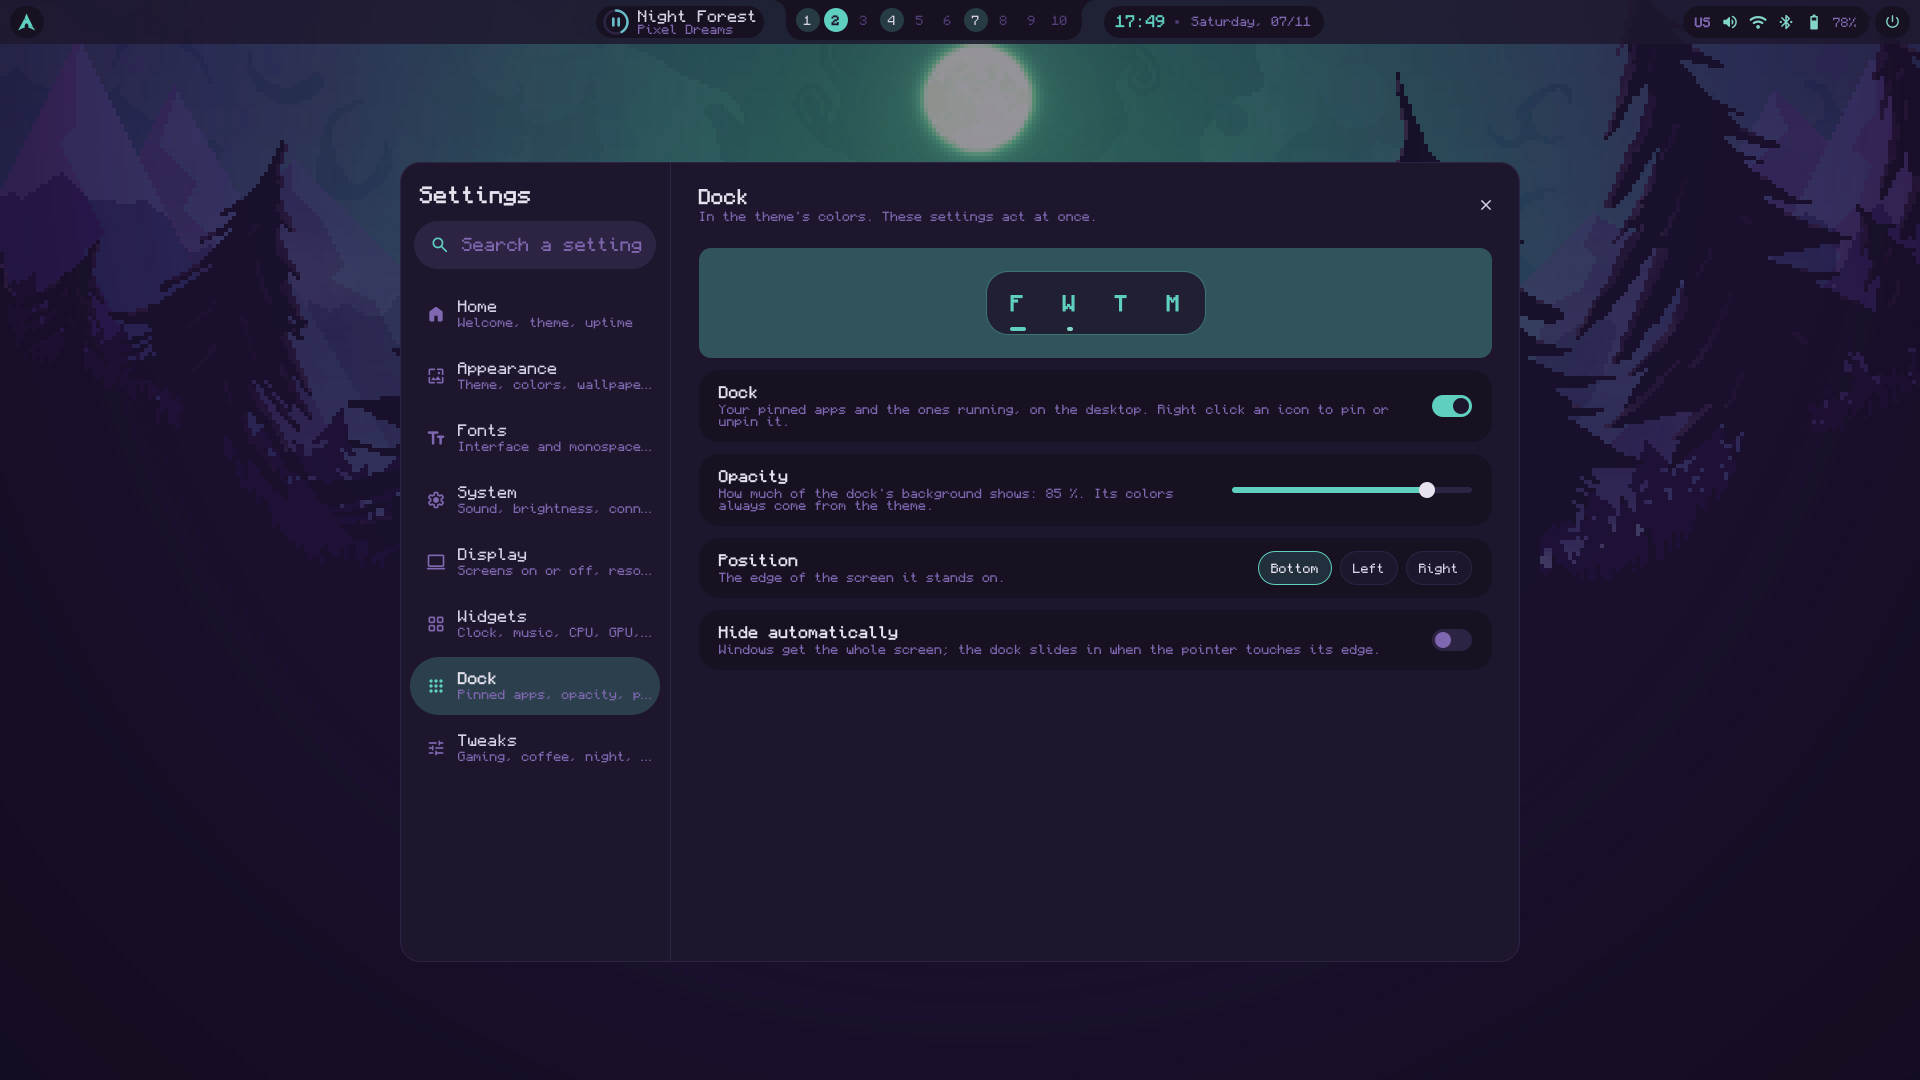
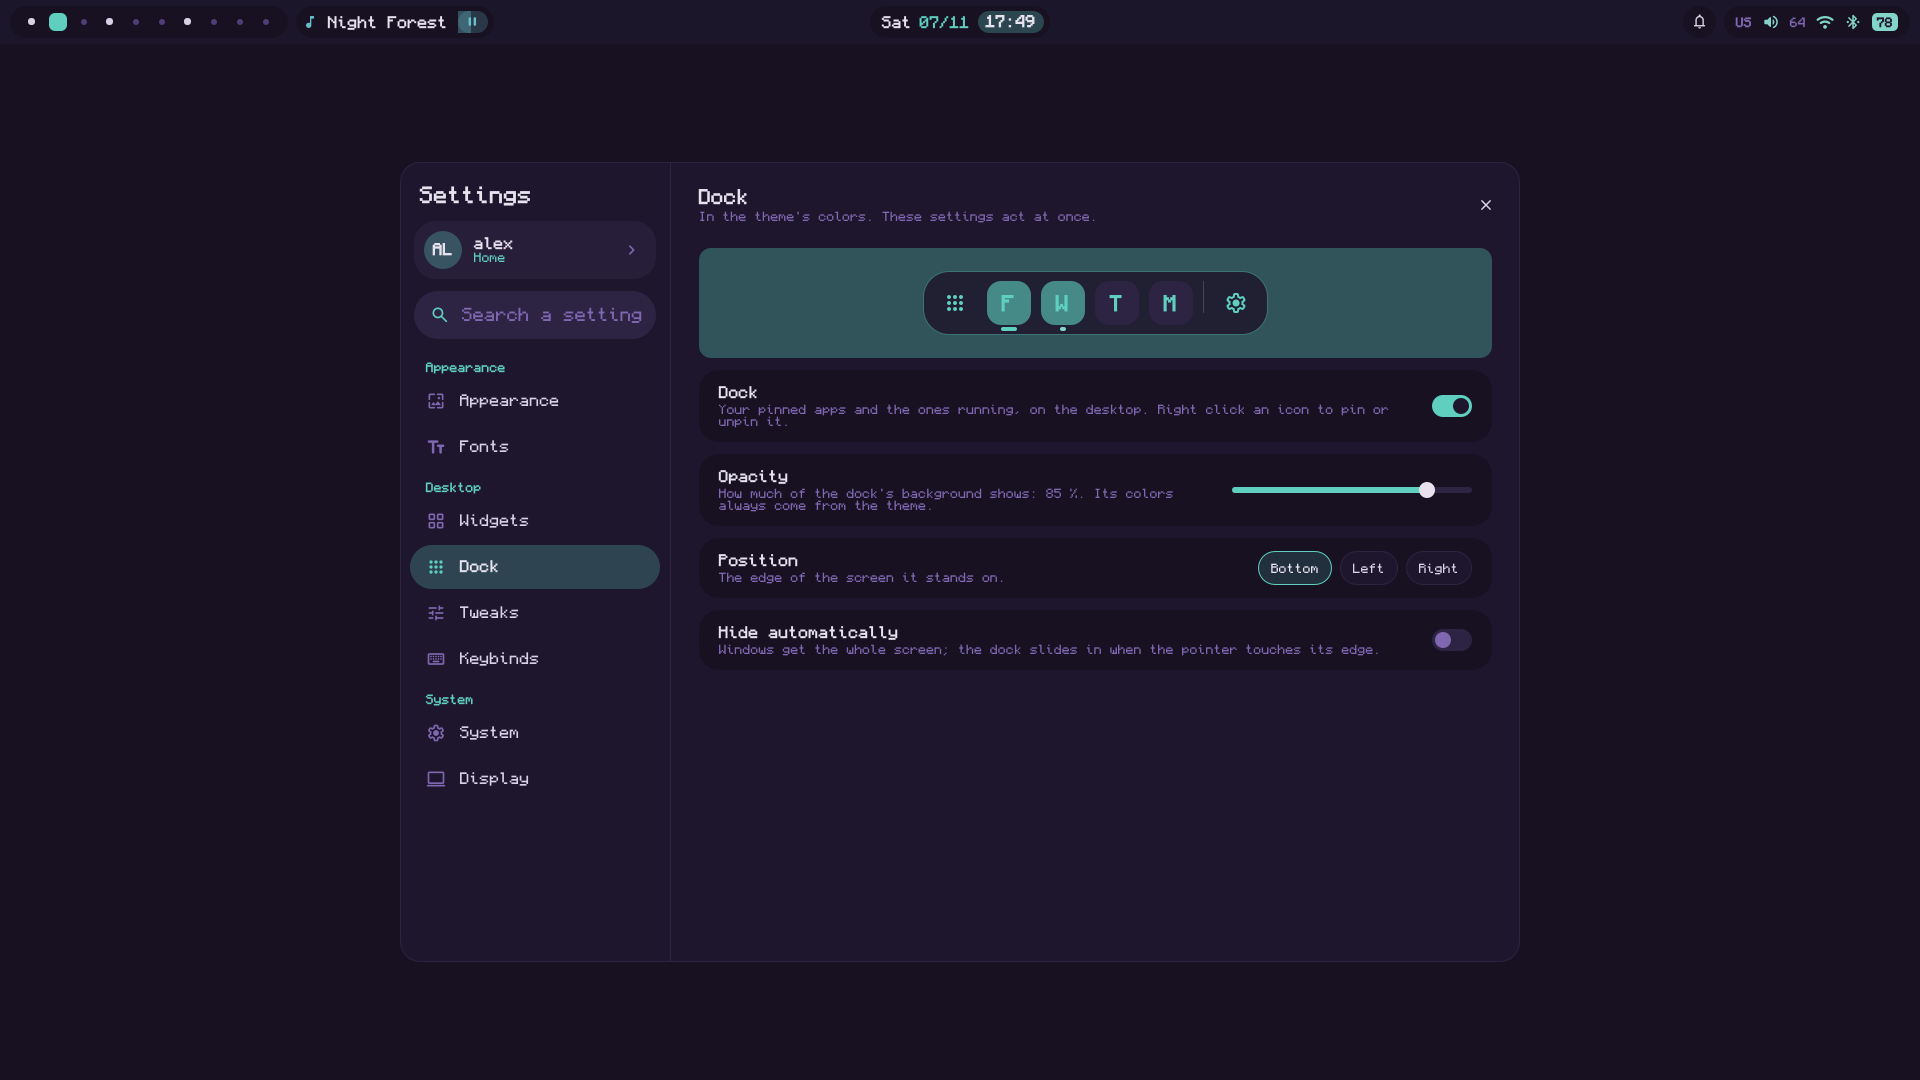
Settings: profile card and sectioned side list
Claude-Session: https://claude.ai/code/session_01DQMVUPKUY5DvQErgSP3F1U

Changed region(s): [[0.0, 0.0, 1.0, 0.7333], [0.4688, 0.2444, 0.6562, 0.3361]]

diff --git a/quickshell/settings/SettingsNav.qml b/quickshell/settings/SettingsNav.qml
@@ -4,13 +4,15 @@ import "../theme"
 import "../components"
 import "settings.js" as Settings
 
-// The left side of the Settings window: search, then the pages. While
-// something is typed, the matching settings replace the pages; Enter or a
-// click goes to the first or chosen one.
+// The left side of the Settings window: your profile card (it opens Home),
+// search, then the pages under their sections (Appearance, Desktop,
+// System). While something is typed, the matching settings replace the
+// pages; Enter or a click goes to the first or chosen one.
 Item {
     id: nav
 
     property string page: "appearance"
+    property string user: ""          // shown on the profile card
     readonly property var results: Settings.search(search.text)
     signal pagePicked(string page)
     signal resultPicked(string page, string id)
@@ -37,10 +39,53 @@ Item {
         font.weight: Font.DemiBold
     }
 
-    SearchField {
-        id: search
+    // You: initials in a circle, your name; a click opens Home.
+    Rectangle {
+        id: profile
         anchors.top: title.bottom
         anchors.topMargin: 16
+        x: 14
+        width: parent.width - 28
+        height: 58
+        radius: 22
+        color: nav.page === "home" ? Qt.alpha(Theme.accent, 0.22) : profileHover.hovered ? Theme.surface : Qt.alpha(Theme.surface, 0.6)
+
+        Rectangle {
+            x: 10
+            anchors.verticalCenter: parent.verticalCenter
+            width: 38
+            height: 38
+            radius: 19
+            color: Qt.alpha(Theme.accent, 0.3)
+            Label {
+                anchors.centerIn: parent
+                text: (nav.user || "?").slice(0, 2).toUpperCase()
+                font.weight: Font.Bold
+                color: Theme.fgBright
+            }
+        }
+        Column {
+            x: 60
+            anchors.verticalCenter: parent.verticalCenter
+            Label { text: nav.user || "You"; font.weight: Font.DemiBold; color: Theme.fgBright }
+            Label { text: "Home"; small: true; color: Theme.accent }
+        }
+        Icon {
+            anchors.right: parent.right
+            anchors.rightMargin: 14
+            anchors.verticalCenter: parent.verticalCenter
+            name: "chevron_right"
+            color: Theme.subtle
+            size: 20
+        }
+        HoverHandler { id: profileHover; cursorShape: Qt.PointingHandCursor }
+        TapHandler { onTapped: nav.pagePicked("home") }
+    }
+
+    SearchField {
+        id: search
+        anchors.top: profile.bottom
+        anchors.topMargin: 12
         x: 14
         width: parent.width - 28
         placeholder: "Search a setting"
@@ -48,73 +93,108 @@ Item {
         onCancelled: text ? text = "" : nav.closed()
     }
 
-    Column {
+    // Same entry for a page and for a search result.
+    component Entry: Rectangle {
+        id: entry
+
+        required property var modelData
+        readonly property bool isPage: !search.text
+        readonly property bool chosen: isPage && modelData.id === nav.page
+
+        width: parent ? parent.width : 0
+        height: isPage ? 44 : 48
+        radius: height / 2
+        color: chosen ? Qt.alpha(Theme.accent, 0.25) : hover.hovered ? Qt.alpha(Theme.surface, 0.55) : "transparent"
+        Behavior on color { ColorAnimation { duration: Theme.duration } }
+        Icon {
+            visible: entry.isPage
+            x: 16
+            anchors.verticalCenter: parent.verticalCenter
+            name: entry.modelData.icon || ""
+            color: entry.chosen ? Theme.accent : Theme.subtle
+            size: 20
+        }
+        Column {
+            anchors.left: parent.left
+            anchors.leftMargin: entry.isPage ? 50 : 16
+            anchors.right: parent.right
+            anchors.rightMargin: 10
+            anchors.verticalCenter: parent.verticalCenter
+            Label {
+                width: parent.width
+                text: entry.modelData.title
+                color: entry.chosen ? Theme.fgBright : Theme.fg
+                font.weight: entry.chosen ? Font.DemiBold : Font.Normal
+            }
+            Label {   // a search result: the page it is on
+                visible: !entry.isPage
+                width: parent.width
+                text: entry.isPage ? "" : Settings.pageOf(entry.modelData.page).title
+                small: true
+            }
+        }
+        HoverHandler {
+            id: hover
+            cursorShape: Qt.PointingHandCursor
+        }
+        TapHandler {
+            onTapped: entry.isPage ? nav.pagePicked(entry.modelData.id) : nav.pick(entry.modelData)
+        }
+    }
+
+    Flickable {
         anchors.top: search.bottom
-        anchors.topMargin: 16
+        anchors.topMargin: 12
+        anchors.bottom: parent.bottom
         x: 10
         width: parent.width - 20
-        spacing: 4
+        contentHeight: list.implicitHeight + 16
+        clip: true
+        boundsBehavior: Flickable.StopAtBounds
 
-        // The pages, or what the search finds.
-        Repeater {
-            model: search.text ? nav.results : nav.pages
+        Column {
+            id: list
+            width: parent.width
+            spacing: 2
 
-            Rectangle {
-                id: entry
+            // The pages, section by section.
+            Repeater {
+                model: search.text ? [] : Settings.GROUPS
 
-                required property var modelData
-                readonly property bool isPage: !search.text
-                readonly property bool chosen: isPage && modelData.id === nav.page
-
-                width: parent.width
-                height: isPage ? 58 : 40
-                radius: height / 2
-                color: chosen ? Qt.alpha(Theme.accent, 0.22) : hover.hovered ? Qt.alpha(Theme.surface, 0.55) : "transparent"
-                Icon {
-                    id: pageIcon
-                    visible: entry.isPage
-                    x: 16
-                    anchors.verticalCenter: parent.verticalCenter
-                    name: entry.modelData.icon || ""
-                    color: entry.chosen ? Theme.accent : Theme.subtle
-                    size: 20
-                }
                 Column {
-                    anchors.left: parent.left
-                    anchors.leftMargin: entry.isPage ? 48 : 16
-                    anchors.right: parent.right
-                    anchors.rightMargin: 10
-                    anchors.verticalCenter: parent.verticalCenter
+                    id: section
+                    required property string modelData
+                    width: list.width
                     spacing: 2
 
                     Label {
-                        width: parent.width
-                        text: entry.modelData.title
-                        color: entry.chosen ? Theme.fgBright : Theme.fg
-                        font.weight: entry.chosen ? Font.DemiBold : Font.Normal
-                    }
-                    Label {
-                        width: parent.width
-                        text: entry.isPage ? entry.modelData.text : Settings.pageOf(entry.modelData.page).title
+                        leftPadding: 16
+                        topPadding: 10
+                        bottomPadding: 4
+                        text: section.modelData
                         small: true
+                        font.weight: Font.DemiBold
+                        color: Theme.accent
                     }
-                }
-
-                HoverHandler {
-                    id: hover
-                    cursorShape: Qt.PointingHandCursor
-                }
-                TapHandler {
-                    onTapped: entry.isPage ? nav.pagePicked(entry.modelData.id) : nav.pick(entry.modelData)
+                    Repeater {
+                        model: nav.pages.filter(page => page.group === section.modelData)
+                        Entry {}
+                    }
                 }
             }
-        }
 
-        Label {
-            visible: search.text !== "" && nav.results.length === 0
-            x: 16
-            text: "Nothing found"
-            small: true
+            // What the search finds.
+            Repeater {
+                model: search.text ? nav.results : []
+                Entry {}
+            }
+
+            Label {
+                visible: search.text !== "" && nav.results.length === 0
+                x: 16
+                text: "Nothing found"
+                small: true
+            }
         }
     }
 }

diff --git a/quickshell/settings/settings.js b/quickshell/settings/settings.js
@@ -57,25 +57,28 @@ const INDEX = [
 
 // The pages of the window, in the order of the menu.
 const PAGES = [
-    { id: "home", title: "Home", icon: "home", text: "Welcome, theme, uptime",
+    { id: "home", group: "", title: "Home", icon: "home", text: "Welcome, theme, uptime",
       note: "Your desktop at a glance." },
-    { id: "appearance", title: "Appearance", icon: "wallpaper", text: "Theme, colors, wallpaper, effects",
+    { id: "appearance", group: "Appearance", title: "Appearance", icon: "wallpaper", text: "Theme, colors, wallpaper, effects",
       note: "Nothing changes until you press Apply: the preview shows it first." },
-    { id: "fonts", title: "Fonts", icon: "text_fields", text: "Interface and monospace fonts, sizes",
+    { id: "fonts", group: "Appearance", title: "Fonts", icon: "text_fields", text: "Interface and monospace fonts, sizes",
       note: "Every font installed, drawn in its own face. These settings act at once." },
-    { id: "system", title: "System", icon: "settings", text: "Sound, brightness, connections, sleep",
+    { id: "system", group: "System", title: "System", icon: "settings", text: "Sound, brightness, connections, sleep",
       note: "These settings act at once." },
-    { id: "display", title: "Display", icon: "computer", text: "Screens on or off, resolution, Hz",
+    { id: "display", group: "System", title: "Display", icon: "computer", text: "Screens on or off, resolution, Hz",
       note: "A change acts at once and asks to be kept: without an answer it goes back after 15 seconds." },
-    { id: "widgets", title: "Widgets", icon: "grid_view", text: "Clock, music, CPU, GPU, RAM, disk",
+    { id: "widgets", group: "Desktop", title: "Widgets", icon: "grid_view", text: "Clock, music, CPU, GPU, RAM, disk",
       note: "On the desktop, under the windows, in the colors of the theme. These settings act at once." },
-    { id: "dock", title: "Dock", icon: "apps", text: "Pinned apps, opacity, position",
+    { id: "dock", group: "Desktop", title: "Dock", icon: "apps", text: "Pinned apps, opacity, position",
       note: "In the theme's colors. These settings act at once." },
-    { id: "tweaks", title: "Tweaks", icon: "tune", text: "Gaming, coffee, night, screenshots",
+    { id: "tweaks", group: "Desktop", title: "Tweaks", icon: "tune", text: "Gaming, coffee, night, screenshots",
       note: "A click turns a mode on or off, at once." },
-    { id: "keys", title: "Keybinds", icon: "keyboard", text: "Shortcuts of the panels and tools",
+    { id: "keys", group: "Desktop", title: "Keybinds", icon: "keyboard", text: "Shortcuts of the panels and tools",
       note: "A new key acts at once, in Hyprland, Sway or Niri." }
 ];
+
+// The sections of the side list, in order; Home is the profile card above them.
+const GROUPS = ["Appearance", "Desktop", "System"];
 
 // The modes of the Tweaks page; ids are those of Modes.flip.
 const MODES = [

diff --git a/quickshell/settings/SettingsContent.qml b/quickshell/settings/SettingsContent.qml
@@ -75,6 +75,7 @@ Item {
             width: 270
             height: parent.height
             page: window.page
+            user: (window.about || {}).user || ""
             onPagePicked: page => {
                 window.page = page;
                 flick.contentY = 0;

diff --git a/CHANGELOG.md b/CHANGELOG.md
@@ -30,6 +30,9 @@ All notable changes to this project are documented here. The format follows
 
 ### Added
 
+- Settings side list: your profile card at the top (initials, name; it
+  opens Home), the search, then the pages under Appearance, Desktop and
+  System, one line each.
 - New look for the bar: the workspaces as dots (the focused one a lit
   square; `bar.workspaces = "numbers"` for the numbered circles), a music
   pill ("Nothing playing" when nothing plays), the short date with the time
